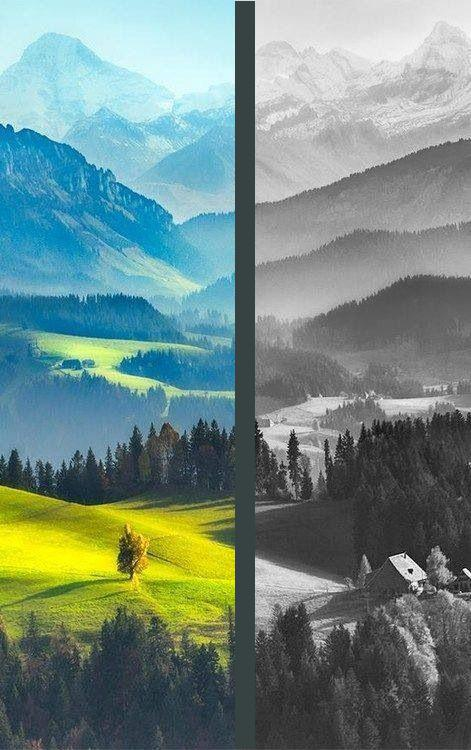
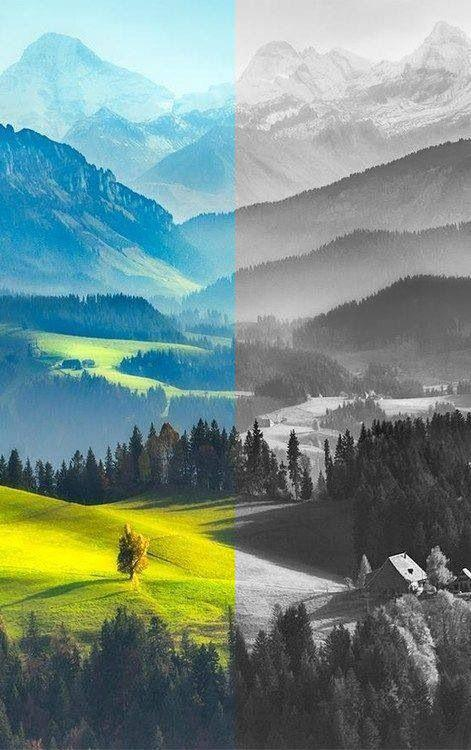
improved working

Changed region(s): [[0.4756, 0.0, 0.5648, 0.92]]

diff --git a/ColorNN_p4/imp2.py b/ColorNN_p4/imp2.py
@@ -33,7 +33,8 @@ class improved_agent:
 		min_loss = 1
 		s = 0
 		e = 0
-		while i < 1000000:
+		runs = 0
+		while i < 10000000:
 			#calculating new weights
 			w_t = np.array(w_tplus)
 			r = self.rng.integers(1, high=rows-1)
@@ -79,10 +80,10 @@ class improved_agent:
 				if min_loss > losses[-1]:
 					min_loss = losses[-1]
 					i = -1
-
 				#self.alpha *= .999
 			i += 1
 			e += 1
+			runs += 1
 			#print("Iteration", i, "complete.")
 		print("Done building model", r_g_b_ind)
 		return w_tplus
@@ -103,10 +104,11 @@ class improved_agent:
 				x = [(np.max(a) - 128) / 255 for a in patch]
 				#x = [((np.max(a) - 128) / 255) for a in x ]
 				x.insert(0, 1)
-				x = np.array(x)
-				r = int(128 + 255 * gr.sigmoid(np.dot(self.red_model, x)))
-				g = int(128 + 255 * gr.sigmoid(np.dot(self.green_model, x)))
-				b = int(128 + 255 * gr.sigmoid(np.dot(self.blue_model, x)))
+				#x = np.array(x)
+				x = gr.quad(x)
+				r = int(128 + 255 * (gr.sigmoid(np.dot(self.red_model, x)) - .5))
+				g = int(128 + 255 * (gr.sigmoid(np.dot(self.green_model, x)) - .5))
+				b = int(128 + 255 * (gr.sigmoid(np.dot(self.blue_model, x)) - .5))
 				#if (row % 10 == 0):
 				#	print(r)
 				#	print(g)
@@ -120,5 +122,5 @@ class improved_agent:
 		plt.show()
 		return self.clr_img
 
-impr_agent = improved_agent("mountains.jpg", .01, 1, 100000)
+impr_agent = improved_agent("mountains.jpg", .01, 2, 200000)
 impr_agent.run()

diff --git a/ColorNN_p4/basic_agent.py b/ColorNN_p4/basic_agent.py
@@ -26,7 +26,6 @@ class basic_agent:
 		self.img = np.array(plt.imread(self.img_path))
 		self.new_img = self.img.copy()
 		clustered = k_means.k_means(clusters,self.new_img)
-		
 		self.five_color = clustered.run() 
 		self.five_color = np.array(self.five_color).reshape(clusters,3)
 		print(self.five_color)
@@ -54,19 +53,26 @@ class basic_agent:
 			if row == 0 or row >= self.rows-1:
 				break
 			col = self.div_line
-			while col < self.div_line+20:#self.cols - 1:
+			while col < self.cols - 1:
+				print(row, col)
 				patch = p.build_patch(self.gray_img, row, col)
 				six_sim = p.similar_patch(patch, self.patches)
+				for i in range(6):
+					print(self.patches[six_sim[i]])
+				input()
 				new_clr = p.color_lookup(self.clustered_img, six_sim)
 				
 				#print(self.new_img[row,col-1,:])
 				#temp = [i for i in self.five_color[0]]
 				
-				self.new_img[row,col,:] = new_clr #np.array(temp)
+				#self.new_img[row,col,:] = new_clr #np.array(temp)
+				self.new_img[row][col] = new_clr
 				col += 1
 				#print("Colored pixel", row, ",", col)
 			print(f"Row: {row} | Progress {row / self.rows}")
+		plt.imshow(self.new_img)
+		plt.show()
 		
-#b_agent = basic_agent('mountains.jpg')
+b_agent = basic_agent('mountains.jpg')
 #b_agent = basic_agent('small_test.jpg')
-#b_agent.run()
+b_agent.run()

diff --git a/ColorNN_p4/patch.py b/ColorNN_p4/patch.py
@@ -30,6 +30,7 @@ def build_big_patch(img,r,c):
 #returns indices for six most similar patches
 def similar_patch(patch, patches):
     norms = np.linalg.norm(patch - patches, axis=2)
+    print(norms)
     patch_norm = []
     for i in range(len(patches)):
         patch_norm.append((norms[i].sum(), i))
